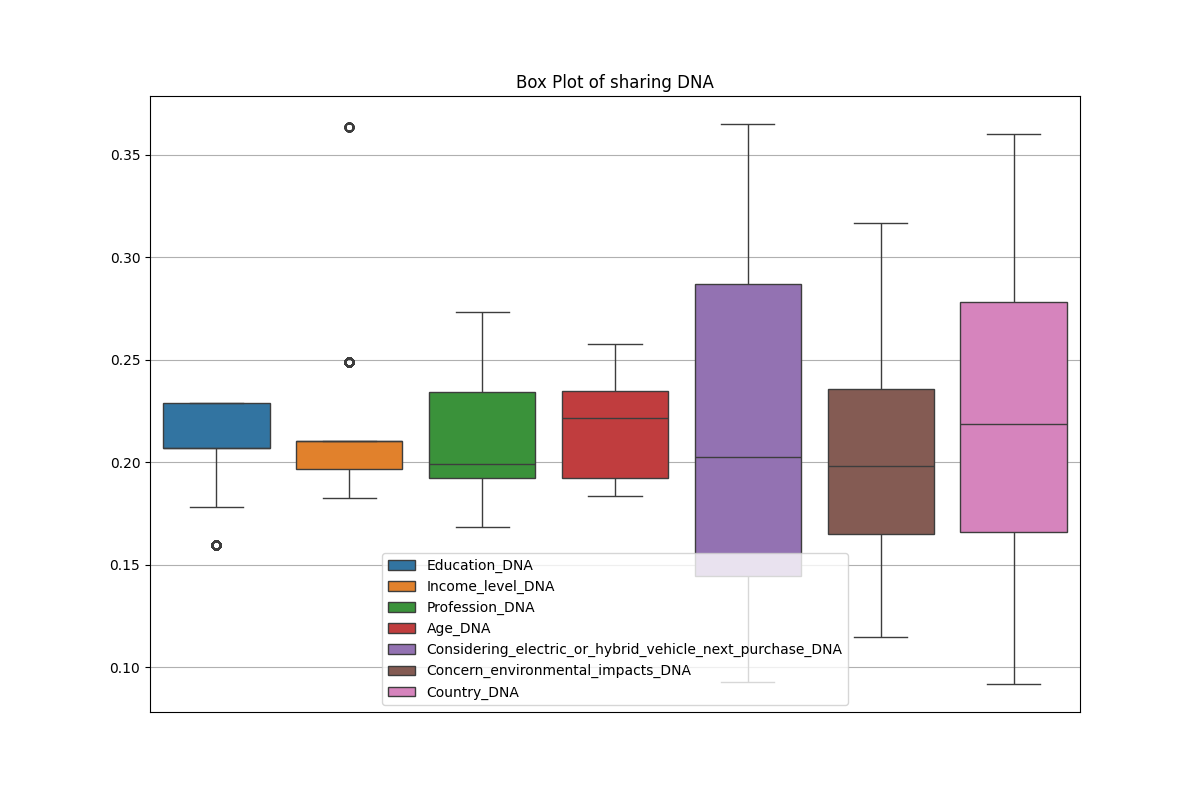
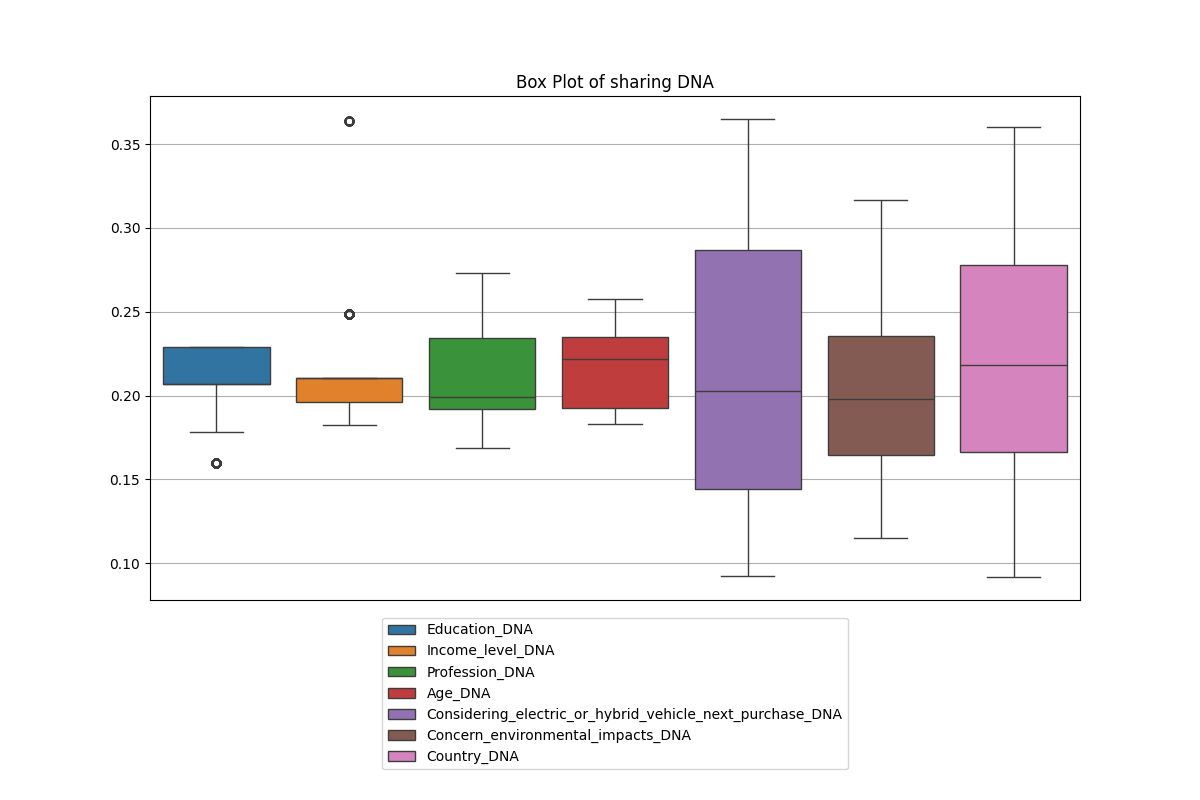
legend in box plots moved outside of plot

diff --git a/agent-based-basic/exploratory_analysis/exploratory_analysis.py b/agent-based-basic/exploratory_analysis/exploratory_analysis.py
@@ -19,7 +19,7 @@ def kdeplot(attribute):
     # plt.savefig(f"./kdeplot/{attribute.lower()}_distribution.png")
 
 
-df = load_dataset_csv("/Users/giuliatesta/PycharmProjects/masters-thesis-project/dataset/df_DNA_sharingEU.csv",
+df = load_dataset_csv("../../dataset/df_DNA_sharingEU.csv",
                       index=False)
 df.rename(columns={"Age_c": "Age", "Location_of_resudence": "Location_of_residence"}, inplace=True)
 df["Education"] = df["Education"].replace("Tertiary and higher (University degree, PhD or similar degrees).", "Tertiary and higher")
@@ -40,21 +40,22 @@ df["Profession"] = df["Profession"].replace("storekeeper/tradesman/craftsman", "
 # description.to_csv("description_numerical.csv")
 
 # COUNT PLOTS
-plt.figure(figsize=(16, 12))
-plt.subplot(3, 2, 1)
-countplot("Education")
-plt.subplot(3, 2, 2)
-countplot("Income_level")
-plt.subplot(3, 2, 3)
-countplot("Profession")
-plt.subplot(3, 2, 4)
-countplot("Age")
-plt.subplot(3, 2, 5)
-countplot("Gender")
-plt.subplot(3, 2, 6)
-countplot("Location_of_residence")
-plt.tight_layout()
-plt.savefig(f"./exploratory_analysis/countplot/countplots_DNA.png")
+# plt.figure(figsize=(16, 12))
+# plt.subplot(3, 2, 1)
+# countplot("Education")
+# plt.subplot(3, 2, 2)
+# countplot("Income_level")
+# plt.subplot(3, 2, 3)
+# countplot("Profession")
+# plt.subplot(3, 2, 4)
+# countplot("Age")
+# plt.subplot(3, 2, 5)
+# countplot("Gender")
+# plt.subplot(3, 2, 6)
+# countplot("Location_of_residence")
+# plt.tight_layout()
+# plt.savefig(f"./exploratory_analysis/countplot/countplots_DNA.png")
+
 # countplot("Education")
 # countplot("Gender")
 # countplot("Profession")
@@ -63,34 +64,33 @@ plt.savefig(f"./exploratory_analysis/countplot/countplots_DNA.png")
 # countplot("Location_of_residence")
 
 # KDE PLOTS
-plt.figure(figsize=(16, 12))
-plt.subplot(5, 2, 1)
-kdeplot("Education_DNA")
-plt.subplot(5, 2, 2)
-kdeplot("Income_level_DNA")
-plt.subplot(5, 2, 3)
-kdeplot("Profession_DNA")
-plt.subplot(5, 2, 4)
-kdeplot("Age_DNA")
-plt.subplot(5, 2, 5)
-kdeplot("Considering_electric_or_hybrid_vehicle_next_purchase_DNA")
-plt.subplot(5, 2, 6)
-kdeplot("Concern_environmental_impacts_DNA")
-plt.subplot(5, 2, 7)
-kdeplot("Country_DNA")
-plt.subplot(5, 2, 8)
-# kdeplot("sha_ind")
-# plt.subplot(5, 2, 9)
-kdeplot("sha_ind_norm")
-plt.tight_layout()
-plt.savefig(f"./exploratory_analysis/kdeplot/kdeplots_DNA.png")
+# plt.figure(figsize=(16, 12))
+# plt.subplot(5, 2, 1)
+# kdeplot("Education_DNA")
+# plt.subplot(5, 2, 2)
+# kdeplot("Income_level_DNA")
+# plt.subplot(5, 2, 3)
+# kdeplot("Profession_DNA")
+# plt.subplot(5, 2, 4)
+# kdeplot("Age_DNA")
+# plt.subplot(5, 2, 5)
+# kdeplot("Considering_electric_or_hybrid_vehicle_next_purchase_DNA")
+# plt.subplot(5, 2, 6)
+# kdeplot("Concern_environmental_impacts_DNA")
+# plt.subplot(5, 2, 7)
+# kdeplot("Country_DNA")
+# plt.subplot(5, 2, 8)
+# kdeplot("sha_ind_norm")
+# plt.tight_layout()
+# plt.savefig(f"./exploratory_analysis/kdeplot/kdeplots_DNA.png")
 
 # BOX PLOTS
-# plt.figure(figsize=(12, 8))
-# numerical_columns = ["Education_DNA", "Income_level_DNA", "Profession_DNA", "Age_DNA", "Considering_electric_or_hybrid_vehicle_next_purchase_DNA", "Concern_environmental_impacts_DNA", "Country_DNA"]
-# sns.boxplot(data=df[numerical_columns], legend=True)
-# plt.legend(loc='lower center')
-# plt.xticks([])
-# plt.grid()
-# plt.title(f'Box Plot of sharing DNA')
-# plt.savefig(f"./boxplot/sharing_dna_distribution.png")
+plt.figure(figsize=(12, 8))
+numerical_columns = ["Education_DNA", "Income_level_DNA", "Profession_DNA", "Age_DNA", "Considering_electric_or_hybrid_vehicle_next_purchase_DNA", "Concern_environmental_impacts_DNA", "Country_DNA"]
+sns.boxplot(data=df[numerical_columns], legend=True)
+plt.subplots_adjust(bottom=0.25)
+plt.legend(loc='lower center', bbox_to_anchor=(0.5, -0.35))
+plt.xticks([])
+plt.grid()
+plt.title(f'Box Plot of sharing DNA')
+plt.savefig(f"./boxplot/sharing_dna_distribution.png")
